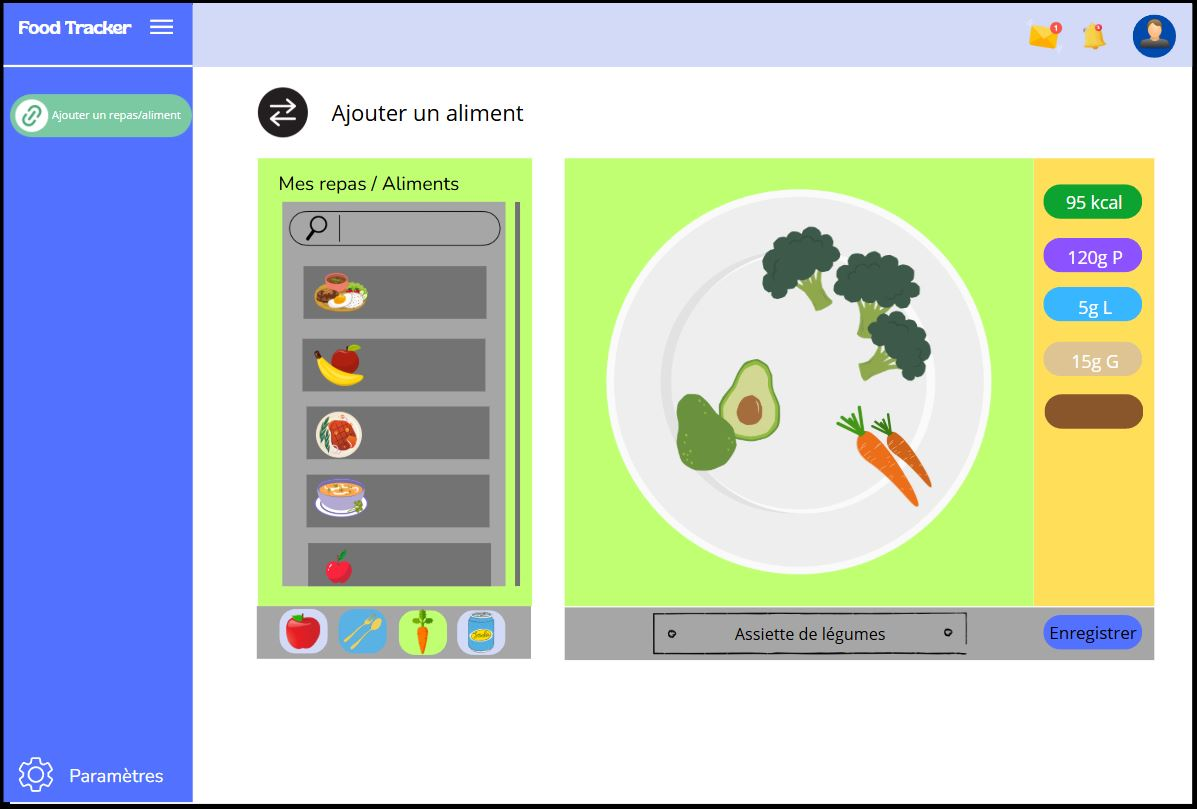
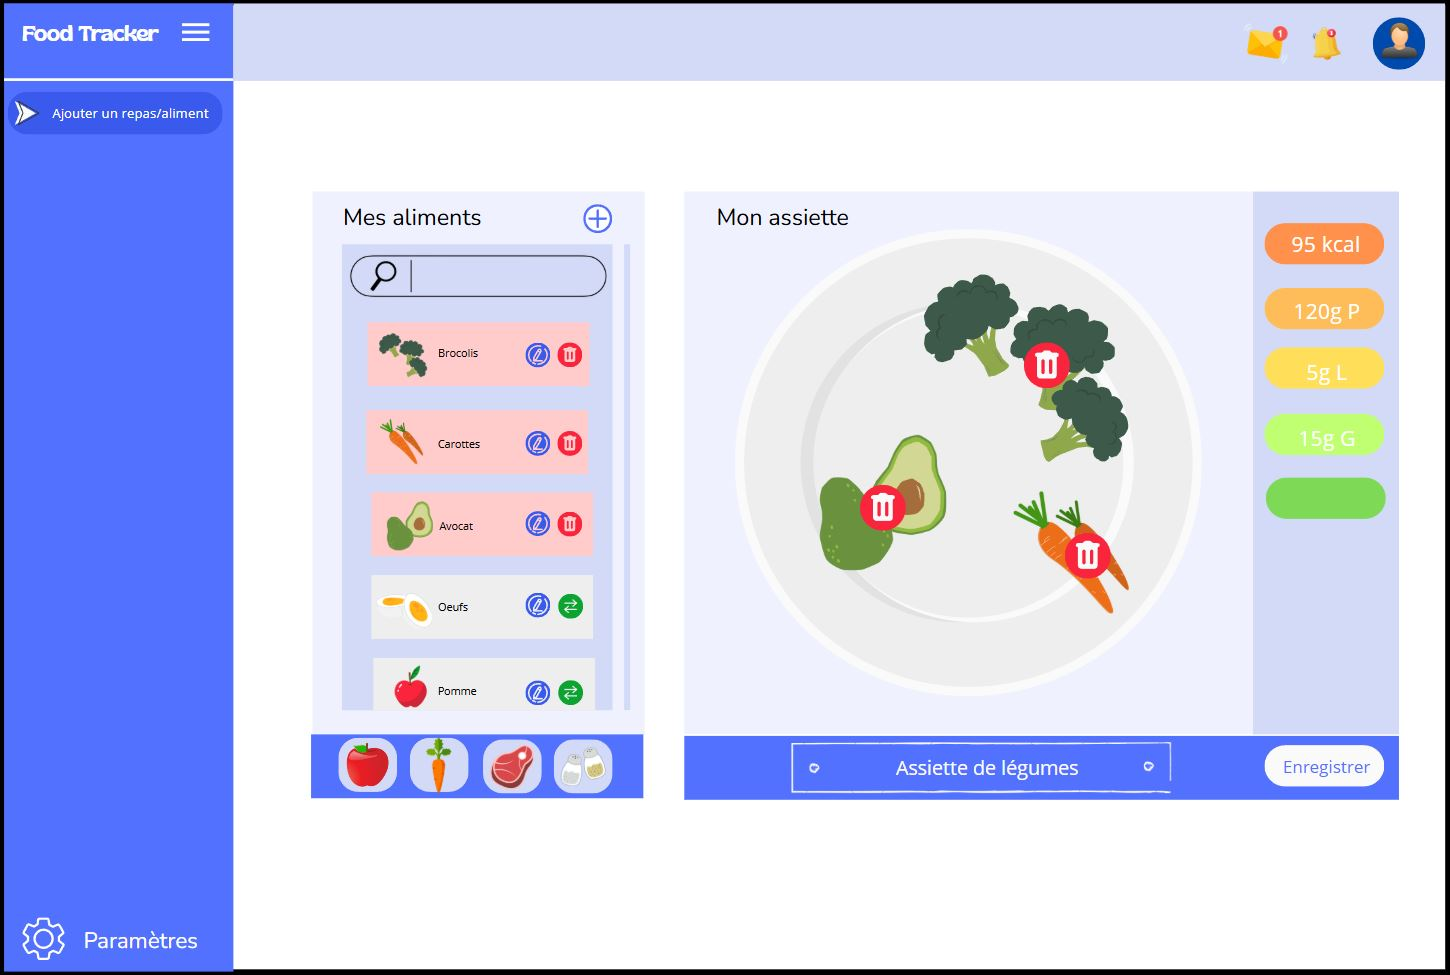
✨ feat: crafter + structuration

diff --git a/docs/food-tracker/metier/sfd.md b/docs/food-tracker/metier/sfd.md
@@ -13,10 +13,8 @@
 2. [Description générale du système](#2-description-générale-du-système)
 3. [Fonctionnalités détaillées](#3-fonctionnalités-détaillées)
 4. [Règles de gestion transverses](#4-règles-de-gestion-transverses)
-5. [Interface utilisateur (UI/UX)](#5-interface-utilisateur-uiux)
-6. [Contraintes](#6-contraintes)
-7. [Glossaire](#7-glossaire)
-8. [Annexes](#8-annexes)
+5. [Navbar, Header et menuing utilisateur (UI/UX)](#5-navbar-header-et-menuing-utilisateur)
+6. [Glossaire](#6-glossaire)
 
 ---
 
@@ -69,16 +67,16 @@ Sportifs, personnes voulant faire un régime ...
 
 ### 3.1 Page Création de repas
 
-- **Objectif :**  
+- **🔰 Objectif :**  
   
   1. Consulter une banque d’aliments 
   2. Créer/modifier un aliment (nom, macros, portion)
   3. Composer des repas à partir d’aliments
   4. Sauvegarder des repas réutilisables
 
-- **Pré-conditions :**
+- **🔰 Pré-conditions :**
     - L'utilisateur doit être enregistré
-- **Tests d'acceptance :**
+- **🔰 Tests d'acceptance :**
 - Je peux :
   - choisir si je veux ajouter un repas ou un aliment.
   - ajouter des aliments dans mon assiette
@@ -89,52 +87,44 @@ Sportifs, personnes voulant faire un régime ...
   - changer le nom de mon aliment
   - utiliser mon aliment dans le mode Repas et l'ajouter dans mon assiette
 
-- **Maquettes d’écran :**  
+- **🔰 Maquette d’écran :**  
   ![Maquette](/img/foodTracker/ecran/crafter.JPG)
+- **🔰 Modification d'un aliment**
+
+  **Workflow ➡ [RG 001](#rg001), [RG 002](#rg002)**
+
+  Lorsqu'on appui sur le bouton d'édition d'une des lignes de la colonne d'aliments (entouré d'un cercle bleu dans l'image ci-dessous),
+alors une popup d'édition s'ouvre.
+
+  ![Maquette](/img/foodTracker/ecran/action_popup_modification.JPG)
+
+  On peut dans cette popup, modifier toutes les valeurs de l'aliment en question. Cela permet à l'utilisateur de gérer ses macros nutriments en fonction de ce qu'il peut consommer.
+
+  ![Maquette](/img/foodTracker/ecran/popup_modification.JPG)
 
 ---
 
 ### 3.2 Page Planning de repas 
 
-- **Objectif :**
+- **🔰 Objectif :**
 
   1. Calendrier hebdomadaire
   2. Assignation de repas à un jour / moment (petit-déjeuner, déjeuner, dîner)
   3. Modification a posteriori : portion, repas remplacé
 
-- **Entrées :**
-
-
-- **Traitements :**
-  - Vérification des identifiants
-  - Génération de session
-
-- **Sorties :**
-  - Redirection vers tableau de bord
-  - Message d’erreur en cas d’échec
-
-- **Pré-conditions :**
+- **🔰 Pré-conditions :**
   - L'utilisateur doit être enregistré
 
-- **Post-conditions :**
-  - Session active
+- **🔰 Tests d'acceptance :**
 
-- **Exceptions :**
-  - Erreur de mot de passe
-  - Utilisateur non trouvé
-
-- **Maquettes d’écran :**  
+- **🔰 Maquettes d’écran :**  
   ![Maquette](/img/logo.svg)
-
-- **Diagrammes (facultatif) :**
-  - Cas d’utilisation
-  - Séquence
 
 ---
 
 ### 3.3 Page Dashboard
 
-- **Objectif :**
+- **🔰 Objectif :**
 
   - Vue sur :
   - La semaine (repas consommés)
@@ -147,39 +137,19 @@ Sportifs, personnes voulant faire un régime ...
   - Objectif vs réel
   - Vue mois / année (filtrable)
 
-- **Entrées :**
-
-
-- **Traitements :**
-  - Vérification des identifiants
-  - Génération de session
-
-- **Sorties :**
-  - Redirection vers tableau de bord
-  - Message d’erreur en cas d’échec
-
-- **Pré-conditions :**
+- **🔰 Pré-conditions :**
   - L'utilisateur doit être enregistré
 
-- **Post-conditions :**
-  - Session active
+- **🔰 Tests d'acceptance :**
 
-- **Exceptions :**
-  - Erreur de mot de passe
-  - Utilisateur non trouvé
-
-- **Maquettes d’écran :**  
+- **🔰 Maquettes d’écran :**  
   ![Maquette](/img/logo.svg)
-
-- **Diagrammes (facultatif) :**
-  - Cas d’utilisation
-  - Séquence
 
 ---
 
 ### 3.4 Page Profil utilisateur
 
-- **Objectif :**
+- **🔰 Objectif :**
 
   - Nom, email, sexe, âge, poids, taille, niveau activité
  
@@ -189,39 +159,19 @@ Sportifs, personnes voulant faire un régime ...
  
   - Historique de poids
 
-- **Entrées :**
-
-
-- **Traitements :**
-  - Vérification des identifiants
-  - Génération de session
-
-- **Sorties :**
-  - Redirection vers tableau de bord
-  - Message d’erreur en cas d’échec
-
-- **Pré-conditions :**
+- **🔰 Pré-conditions :**
   - L'utilisateur doit être enregistré
 
-- **Post-conditions :**
-  - Session active
+- **🔰 Tests d'acceptance :**
 
-- **Exceptions :**
-  - Erreur de mot de passe
-  - Utilisateur non trouvé
-
-- **Maquettes d’écran :**  
+- **🔰 Maquettes d’écran :**  
   ![Maquette](/img/logo.svg)
-
-- **Diagrammes (facultatif) :**
-  - Cas d’utilisation
-  - Séquence
 
 ---
 
 ### 3.5 Page Authentification
 
-- **Objectif :**
+- **🔰 Objectif :**
 
   - Login, inscription
 
@@ -229,33 +179,13 @@ Sportifs, personnes voulant faire un régime ...
 
   - Sécurité token / sessions
 
-- **Entrées :**
-
-
-- **Traitements :**
-  - Vérification des identifiants
-  - Génération de session
-
-- **Sorties :**
-  - Redirection vers tableau de bord
-  - Message d’erreur en cas d’échec
-
-- **Pré-conditions :**
+- **🔰 Pré-conditions :**
   - L'utilisateur doit être enregistré
 
-- **Post-conditions :**
-  - Session active
+- **🔰 Tests d'acceptance :**
 
-- **Exceptions :**
-  - Erreur de mot de passe
-  - Utilisateur non trouvé
-
-- **Maquettes d’écran :**  
+- **🔰 Maquettes d’écran :**  
   ![Maquette](/img/logo.svg)
-
-- **Diagrammes (facultatif) :**
-  - Cas d’utilisation
-  - Séquence
 
 ---
 
@@ -265,12 +195,16 @@ Sportifs, personnes voulant faire un régime ...
 
 ## 4. Règles de gestion transverses
 
-- Règle RG01 : [ex : un utilisateur ne peut pas réserver deux fois le même créneau]
-- Règle RG02 : [ex : la date de livraison ne peut être antérieure à la date de commande]
+📋 **Création de repas**
+
+| <a name="rg001"></a>Règle     | Objectif                                                                                                                                                                                                                                                                                                       | Ecran                                                             |
+|-------------------------------|----------------------------------------------------------------------------------------------------------------------------------------------------------------------------------------------------------------------------------------------------------------------------------------------------------------|-------------------------------------------------------------------|
+| <a name="rg002"></a>**RG001** | **Bouton d'édition d'un aliment**  <br/>Cliquer sur le bouton d'édition d'un aliment représentant un encart de la liste des aliments permet d'ouvrir la popup ([RG002](#rg002)) d'édition des métriques d'un aliment.                                                                                          | ![Maquette](/img/foodTracker/ecran/action_popup_modification.JPG) |
+| <a name="rg003"></a>**RG002** | **Popup d'édition des métriques d'un aliment**  <br/>La popup d'édition des métriques d'un aliment permet de modifier toutes les valeurs nutritives de cet aliment. Cela permet à l'utilisateur d'avoir une gestion beaucoup plus fine sur sa consommation en glucides, calories, proteines, vitamines etc ... | ![Maquette](/img/foodTracker/ecran/popup_modification.JPG)        |
 
 ---
 
-## 5. Interface utilisateur (UI/UX)
+## 5. Navbar, Header et menuing utilisateur
 
 - **Principes de navigation :**  
   [Ex : menu fixe, navigation par onglet…]
@@ -280,33 +214,13 @@ Sportifs, personnes voulant faire un régime ...
 
 ---
 
-## 6. Contraintes
-
-- **Performance :**
-    - Temps de réponse < 2s
-
-- **Compatibilité :**
-    - Navigateurs : Chrome, Firefox, Edge
-
-- **Accessibilité :**
-    - Conforme RGAA niveau AA
-
----
-
-## 7. Glossaire
+## 6. Glossaire
 
 | Terme          | Définition                                    |
 |----------------|-----------------------------------------------|
 | API            | Interface de Programmation d’Application      |
-| RGAA           | Référentiel Général d'Amélioration de l'Accessibilité |
+|            |  |
 
 ---
 
-## 8. Annexes
-
-- Données de test
-- Spécifications techniques associées
-- Liste des endpoints API
-
----
 
